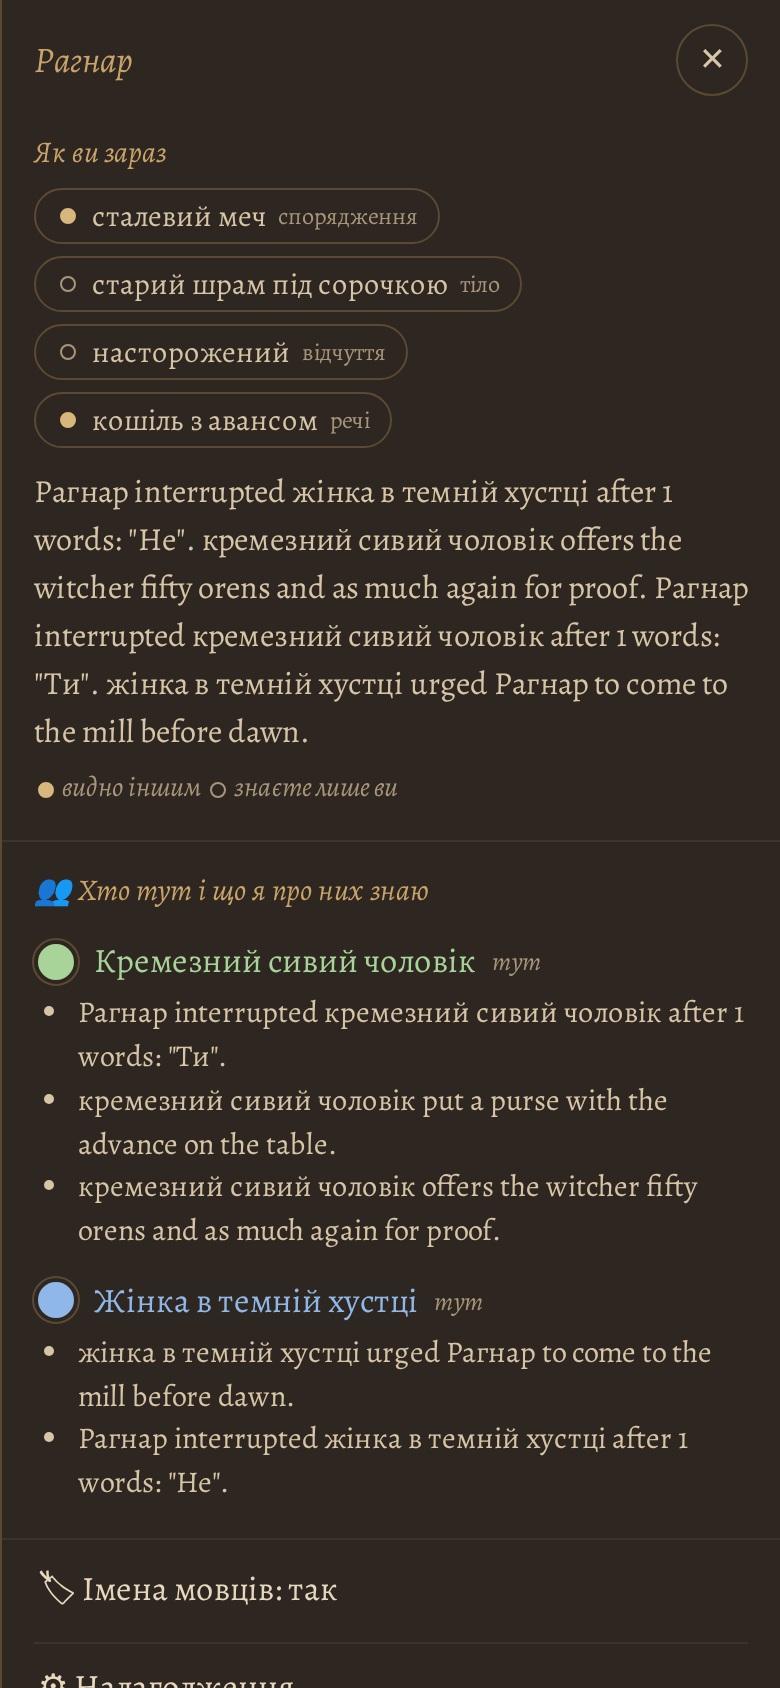
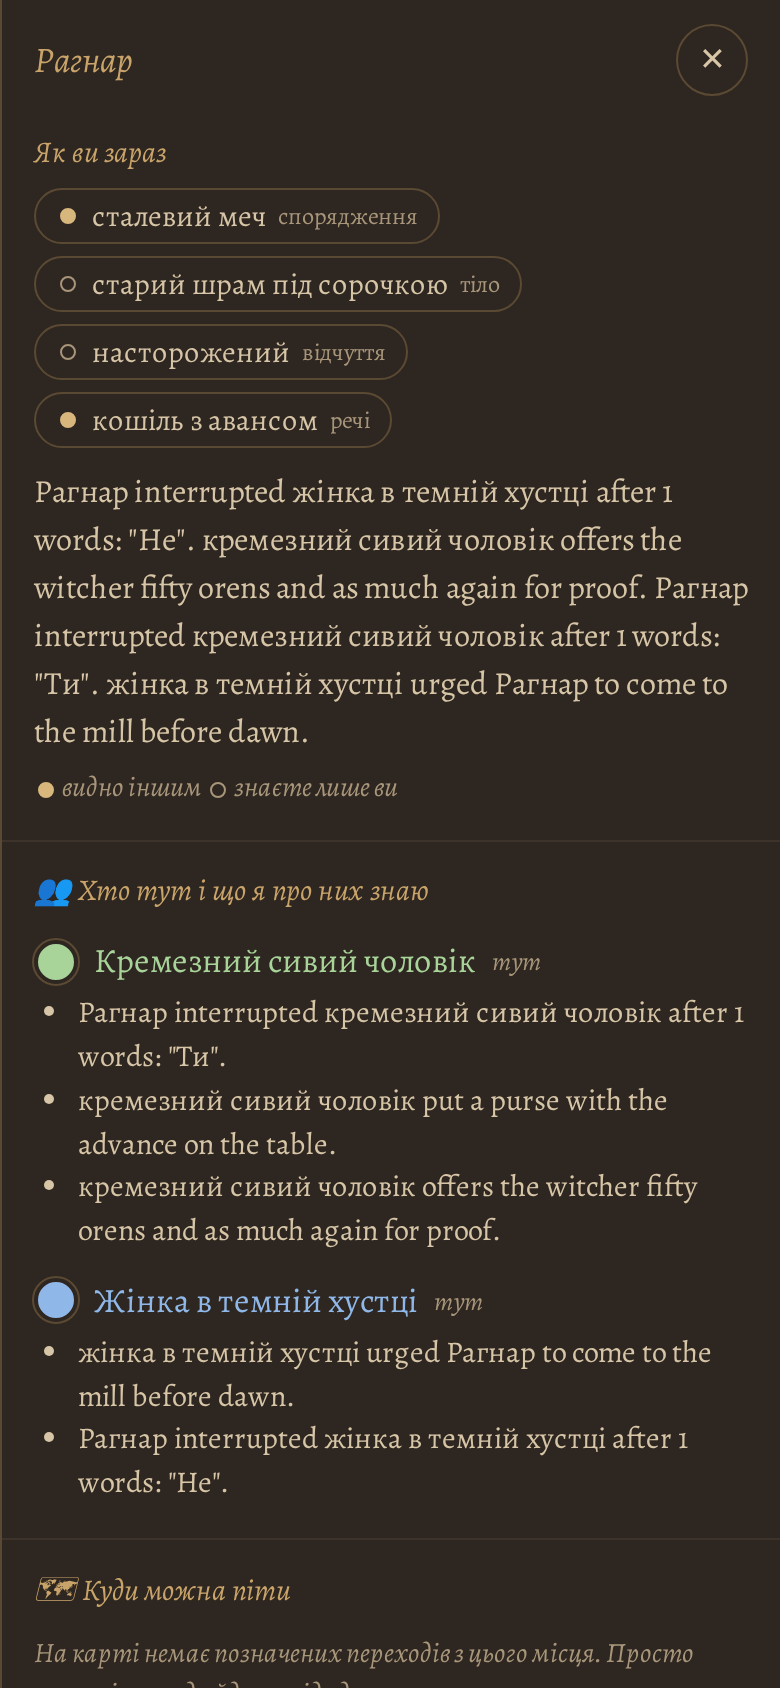
Drawer says in Ukrainian when the map has no places to go (item 13); model_error with event null on an NPC line says to send the event number (item 14)
Claude-Session: https://claude.ai/code/session_01CWLHKUxozeDSLq8FyEpMnW

diff --git a/app/static/app.js b/app/static/app.js
@@ -726,8 +726,8 @@ async function loadPeople() {
   }
 }
 async function loadPlaces() {   // "where can I go" (Task 4); nothing when the endpoint is missing
-  let list = [];
-  try { const r = await fetch("/api/places"); if (r.ok) list = await r.json(); } catch (e) { list = []; }
+  let list = [], ok = false;
+  try { const r = await fetch("/api/places"); if (r.ok) { list = await r.json(); ok = true; } } catch (e) { list = []; }
   if (list && !Array.isArray(list)) list = list.places || [];
   const ul = $("places"); ul.textContent = "";
   for (const pl of list || []) {
@@ -744,7 +744,9 @@ async function loadPlaces() {   // "where can I go" (Task 4); nothing when the e
     if (mins >= 0) li.appendChild(el("small", "", " · ~" + mins + " хв"));
     ul.appendChild(li);
   }
-  $("placesSec").hidden = !ul.children.length;
+  // an answering endpoint with no places (a start off the map): say so instead of an empty list
+  $("placesNone").hidden = !ok || ul.children.length > 0;
+  $("placesSec").hidden = !ok;
 }
 $("btnMenu").addEventListener("click", () => {
   $("drawer").showModal();

diff --git a/app/static/index.html b/app/static/index.html
@@ -88,6 +88,7 @@
   <section class="dsec" id="placesSec" hidden>
     <h2>🗺 Куди можна піти</h2>
     <ul id="places"></ul>
+    <p class="note" id="placesNone" hidden>На карті немає позначених переходів з цього місця. Просто напишіть, куди йдете: «іду до …».</p>
     <p class="note">Щоб піти, просто напишіть про це: «іду на ринок».</p>
   </section>
   <section class="dsec acts">

diff --git a/app/game.py b/app/game.py
@@ -512,9 +512,13 @@ class Game:
             world = [en for en in self.transcript[last_player + 1:]
                      if en["kind"] in ("narr", "npc", "npc_act")]
             tail = world[-1] if world else None
+            if (tail is not None and tail.get("event") is not None and event is None
+                    and tail["kind"] != "narr"):  # null names the narration only
+                raise Refused("Останнє, що сказав світ, це репліка чи дія, а не опис. Надішліть "
+                              "номер її події («event»), щоб позначити саме її; без номера "
+                              "позначається лише останній опис.")
             if (tail is None or tail.get("event") is None
-                    or (event is not None and tail.get("event") != event)
-                    or (event is None and tail["kind"] != "narr")):  # null: the narration
+                    or (event is not None and tail.get("event") != event)):
                 raise Refused("Помилку моделі можна позначити лише на останньому, що сказав чи "
                               "описав світ (репліка або опис). Це вже не воно.")
             event, kind = tail["event"], tail["kind"]

diff --git a/app/tests/test_app_final_review.py b/app/tests/test_app_final_review.py
@@ -245,3 +245,19 @@ def test_translated_panel_and_known_facts_never_show_an_unlearned_name():
     cast = [{"tok": g.camp.tok("horst"), "label": "x", "ink": "#000000", "present": True}]
     known = g._compute_known(cast)
     assert not any("Горст" in f for facts in known.values() for f in facts)
+
+
+def test_model_error_without_event_on_an_npc_line_says_what_to_send():
+    """Smoke 2026-10-22 item 14: `event: null` on a turn that ends with an NPC line answered
+    «Це вже не воно»; the message now says to send the event number."""
+    g = make()
+    g.start_turn("Що кажете?")
+    g.wait_idle(20)
+    assert g.transcript[-1]["kind"] == "npc"
+    c = TestClient(create_app(g))
+    r = c.post("/api/model_error", json={"event": None, "explanation": "не так"})
+    assert r.status_code == 400
+    assert "event" in r.json()["error"] and "номер" in r.json()["error"]
+    assert "Це вже не воно" not in r.json()["error"]
+    ok = c.post("/api/model_error", json={"event": last(g, "npc")["event"], "explanation": "не так"})
+    assert ok.status_code == 200

diff --git a/app/tests/ui_check.py b/app/tests/ui_check.py
@@ -346,7 +346,8 @@ def main() -> None:
         page.wait_for_selector(f"#people [data-tok='{horst}']")
         people = page.inner_text("#people")
         assert "Горст" not in people and "horst" not in people, "people are masked"
-        assert page.is_hidden("#placesSec"), "no places endpoint yet: no section"
+        assert page.is_visible("#placesNone"), "no places on this map: the drawer says so"
+        assert "немає позначених" in page.inner_text("#placesNone")
         no_hscroll(page, "drawer")
         page.wait_for_timeout(300)  # the drawer's slide-in
         shot(page, "06-drawer")
